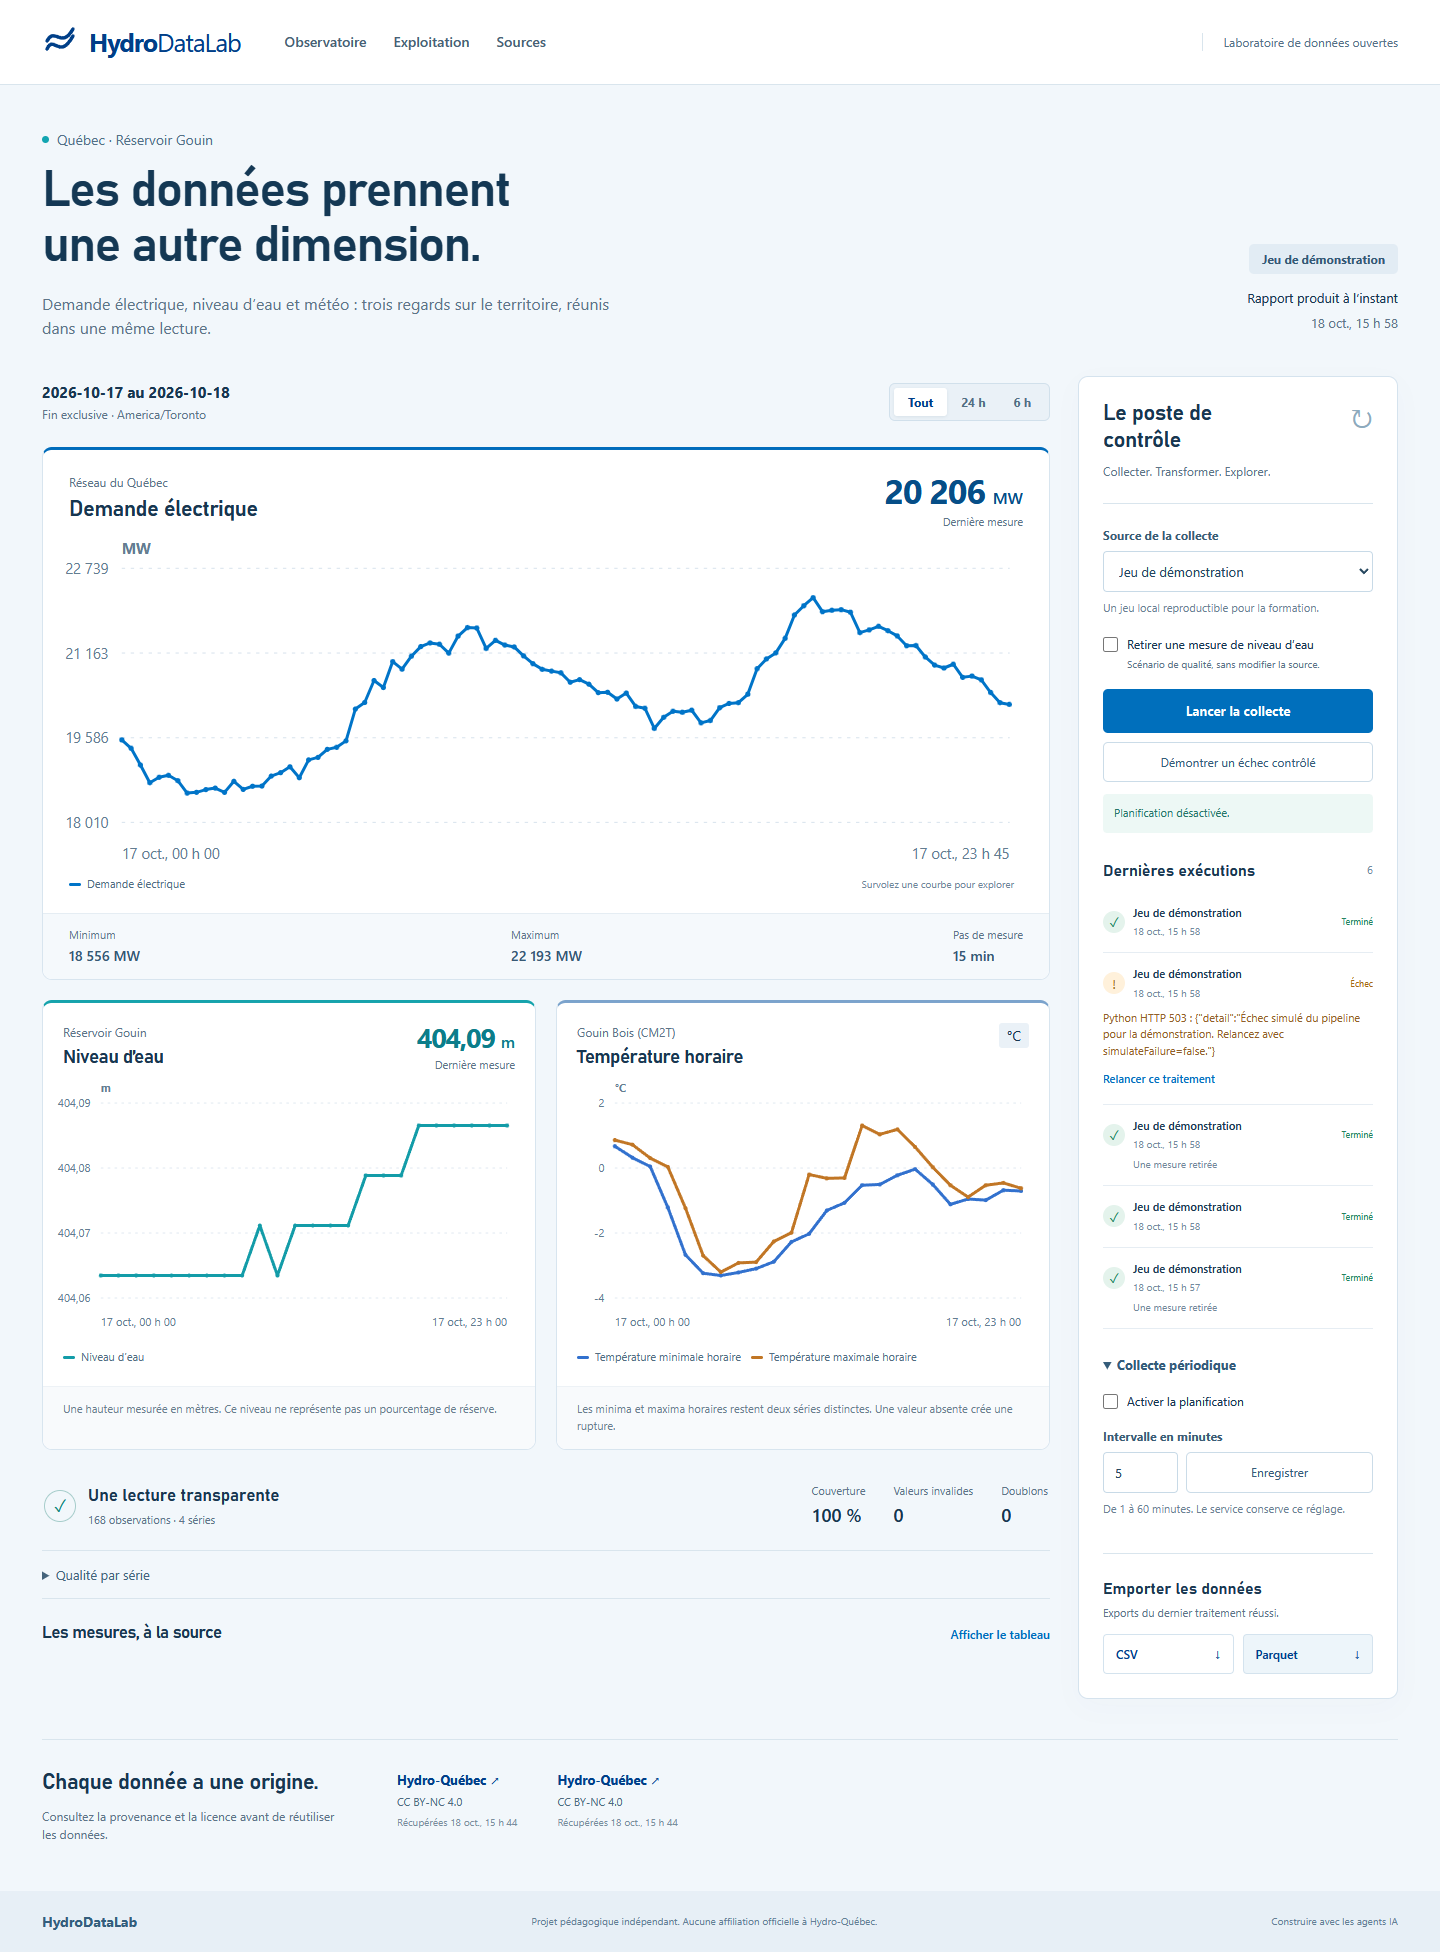
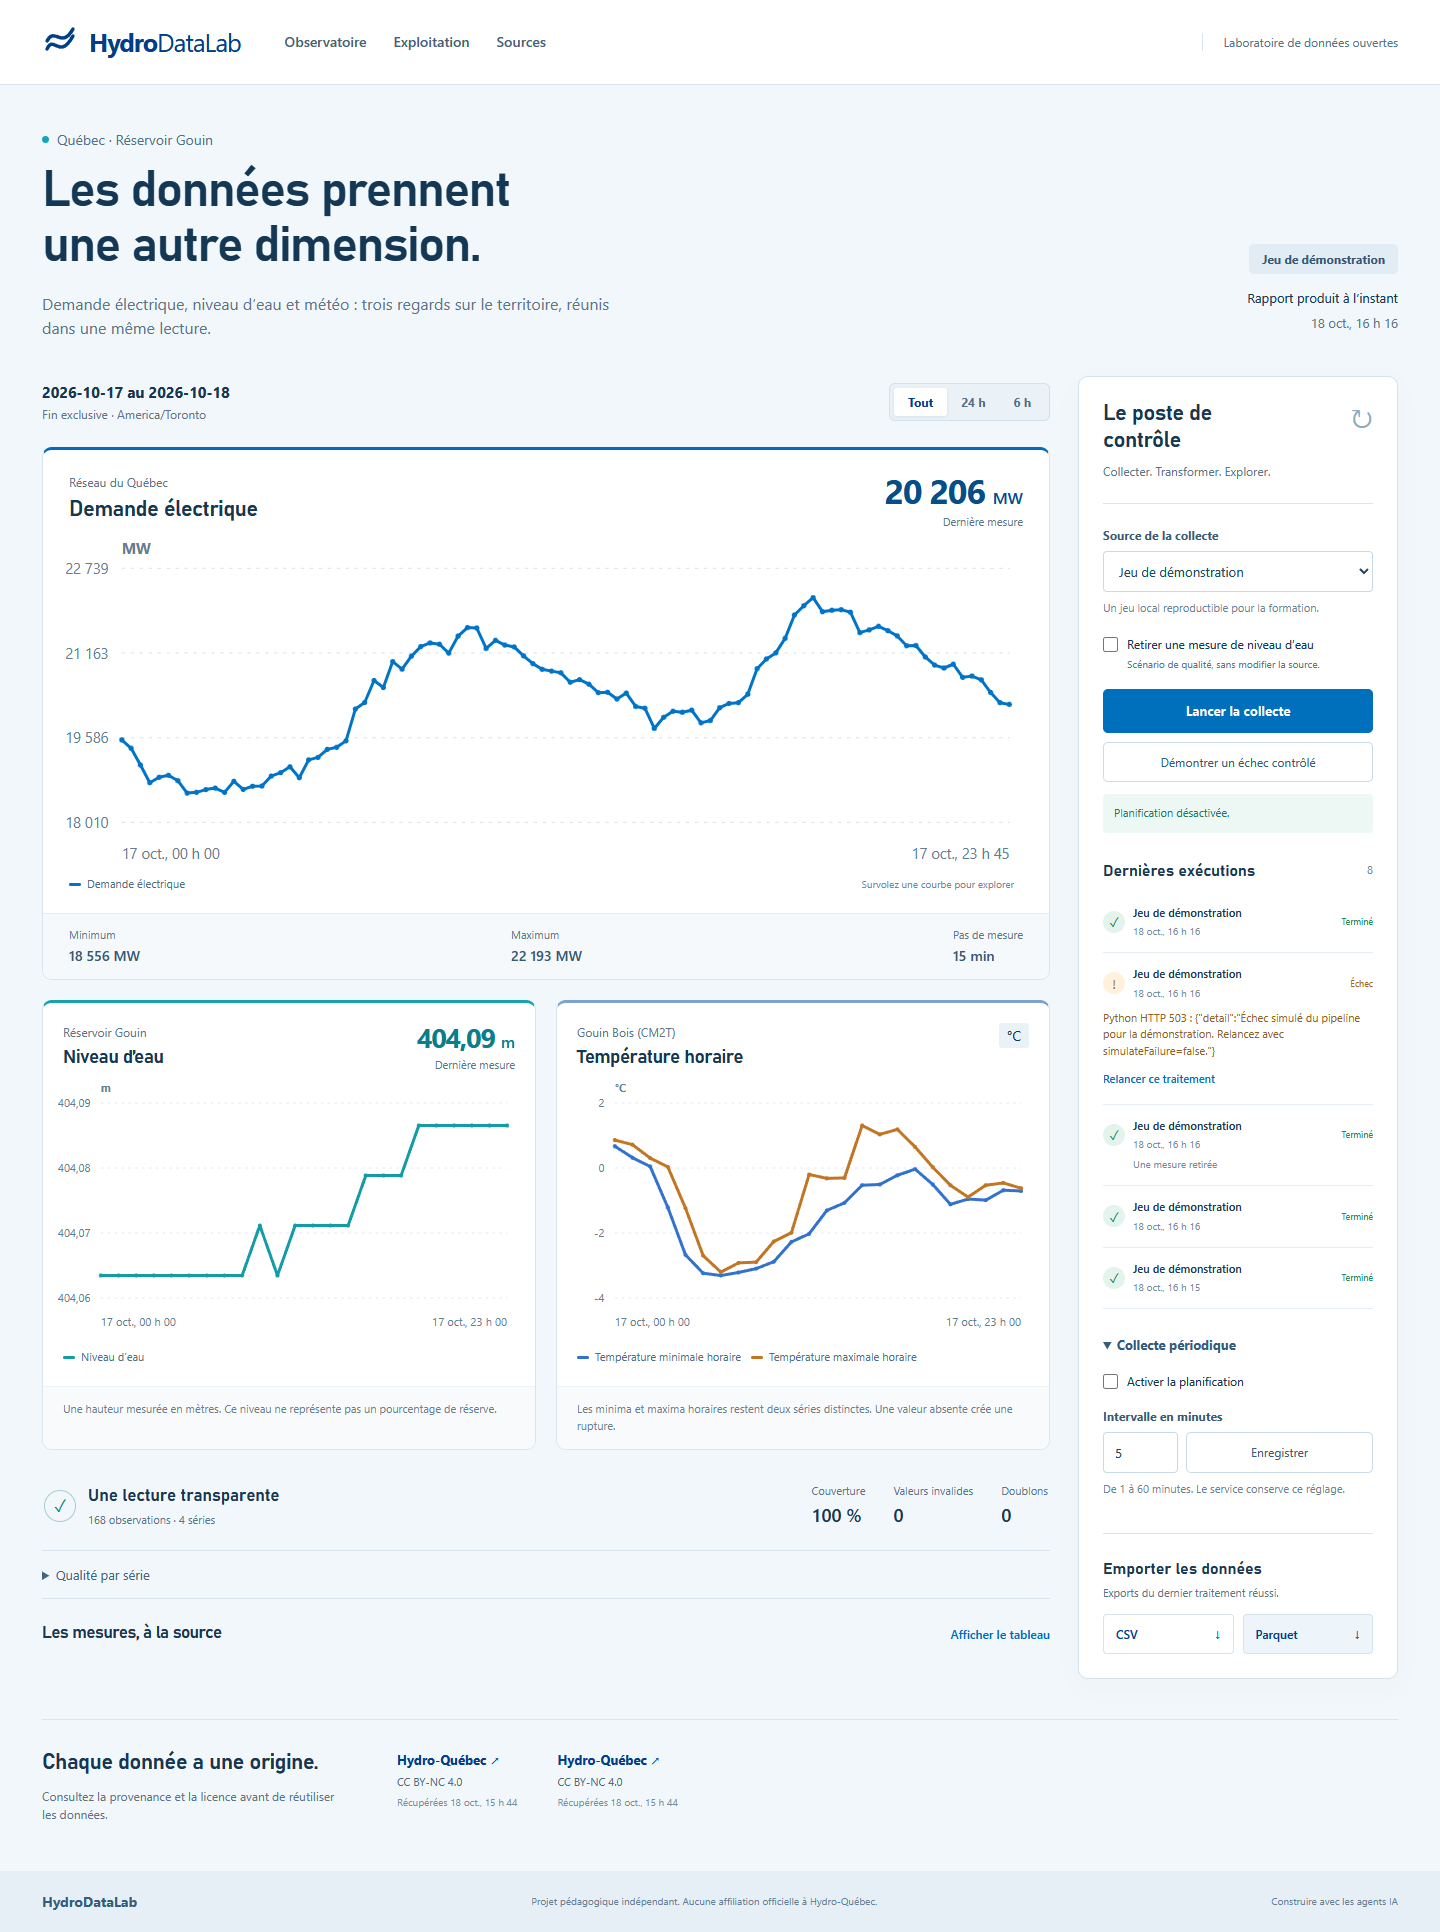
Fournir la solution de couverture validée et les preuves de démonstration

diff --git a/etl/hydrodatalab/coverage.py b/etl/hydrodatalab/coverage.py
@@ -1,7 +1,31 @@
-"""Checkpoint 06 : remplacer temporairement hydrodatalab/coverage.py par ce fichier."""
+"""Petite fonctionnalité indépendante, remplacée par un stub au checkpoint 06."""
+from datetime import datetime, time, timezone
+from zoneinfo import ZoneInfo
 
 
 def calculate_coverage(timestamps, start: str, end: str, interval_minutes: int,
-                       timezone_name: str = "America/Toronto") -> dict | None:
-    """À implémenter à partir de specs/coverage.md pendant la démonstration."""
-    return None
+                       timezone_name: str = "America/Toronto") -> dict:
+    """Compte des créneaux distincts attendus, y compris les jours de 23/25 heures.
+
+    timestamps contient uniquement les observations dont la valeur est valide.
+    start/end sont des dates civiles, borne de fin exclusive.
+    """
+    if interval_minutes <= 0 or 60 % interval_minutes:
+        raise ValueError("interval_minutes doit être un diviseur positif de 60")
+    zone = ZoneInfo(timezone_name)
+    first = datetime.combine(datetime.fromisoformat(start).date(), time(), zone).astimezone(timezone.utc)
+    last = datetime.combine(datetime.fromisoformat(end).date(), time(), zone).astimezone(timezone.utc)
+    if last <= first:
+        raise ValueError("La fin doit suivre le début")
+    step = interval_minutes * 60
+    expected = int((last - first).total_seconds() / step)
+    slots = set()
+    for timestamp in timestamps:
+        instant = datetime.fromisoformat(str(timestamp).replace("Z", "+00:00"))
+        if instant.tzinfo is None:
+            raise ValueError("Un horodatage d'observation doit contenir son décalage UTC")
+        elapsed = (instant.astimezone(timezone.utc) - first).total_seconds()
+        if 0 <= elapsed < expected * step and elapsed % step == 0:
+            slots.add(int(elapsed / step))
+    observed = len(slots)
+    return {"observed": observed, "expected": expected, "percent": round(100 * observed / expected, 2)}

diff --git a/docs/screenshots/VALIDATION.md b/docs/screenshots/VALIDATION.md
@@ -1,0 +1,60 @@
+# Preuve de validation navigateur — HydroDataLab
+
+Validation effectuée le **18 octobre 2026 à 16 h 16, heure de Toronto** (résultat automatisé : `2026-10-18T20:16:26.323Z`).
+
+## Environnement vérifié
+
+- Application servie par la composition de conteneurs : `http://127.0.0.1:53170`.
+- Tableau de bord de télémétrie : `http://127.0.0.1:53174`.
+- Microsoft Edge en mode headless, Playwright 1.64.1.
+- Vue de bureau : 1440 × 1100; mobile : 390 × 844.
+- Données locales de démonstration, scénario complet puis scénario manquant.
+
+## Résultats
+
+| Parcours | Résultat observé |
+|---|---|
+| Collecte locale | Traitement terminé, rapport affiché |
+| Visualisations | Trois graphiques; températures minimale et maximale séparées |
+| Période | Filtre 6 h activé puis retour à toute la période |
+| Clavier | Inspection de la demande avec les flèches; unité MW visible |
+| Qualité | Couverture du niveau d’eau réduite et détail **23 / 24 = 95,83 %** visible |
+| Tableau | Mesures disponibles dans le tableau détaillé |
+| Échec contrôlé | Échec visible dans l’historique |
+| Relance | Nouveau traitement terminé après relance depuis l’interface |
+| Planification | Activation enregistrée, puis désactivation enregistrée et confirmée par l’API |
+| CSV | Téléchargement réussi, contenu non vide |
+| Parquet | Téléchargement réussi, signature binaire `PAR1` vérifiée |
+| Mobile | Aucun débordement horizontal à 390 px |
+| JavaScript | Aucune exception de page capturée |
+| Réseau du navigateur | **Aucune requête HTTP(S) vers une origine externe à l’application locale** pendant le parcours |
+
+État laissé en fin de test : **dernier traitement local réussi, scénario complet; planification désactivée**.
+
+## Captures de secours
+
+- `01-poste-controle.png` : poste de contrôle à l’ouverture.
+- `02-observatoire-complet.png` : rapport complet et graphiques.
+- `03-qualite-mesure-absente.png` : scénario manquant, qualité par série dépliée.
+- `03b-qualite-detail.png` : cadrage rapproché du détail qualité, conservé du contrôle natif.
+- `04-echec-controle.png` : échec explicite avec possibilité de relance.
+- `05-relance-et-exports.png` : état après relance et contrôles de planification.
+- `06-mobile.png` : interface sur écran de 390 px.
+- `07-aspire.png` : ressources du démarrage **natif**, capture conservée; aucun token de connexion visible.
+- `08-compose.png` : traces reçues par le tableau de bord de la composition de conteneurs, filtrées sur les activités `ETL HydroDataLab`; huit traces et les échecs simulés sont visibles.
+
+Les captures 01 à 06 ont été produites par le parcours Compose. Le fichier 03b et la capture 07 proviennent du mode natif.
+
+## Reproduction et limites
+
+Après démarrage des conteneurs, depuis `web/` :
+
+```powershell
+$env:HYDRO_WEB_URL = 'http://127.0.0.1:53170'
+node qa/browser-smoke.mjs
+```
+
+Le script crée des exécutions de démonstration et active brièvement la planification avant de la désactiver. Ne pas lancer simultanément un autre traitement pendant ce test. Son résultat machine est `web/qa-results/browser-smoke.json`, ignoré par Git.
+
+Ce contrôle vérifie le navigateur et les téléchargements du scénario local. Il ne constitue pas un test de récupération des sources publiques en direct, une certification d’accessibilité ou une répétition sur le portable Hydro-Québec. La surveillance réseau couvre les requêtes du navigateur, pas les sorties réseau éventuelles des services côté serveur.
+

diff --git a/PROGRESS.md b/PROGRESS.md
@@ -10,7 +10,7 @@ Mis à jour : 18 octobre 2026. Formation cible : mardi 20 octobre 2026.
 - [x] Parcours Docker Compose et comparaison avec le mode natif.
 - [x] 24 diapositives, PDF, notes et aide-mémoire contrôlés.
 - [ ] Tags pédagogiques, scripts de reprise et sauvegarde Git.
-- [ ] Vérification navigateur et répétition technique.
+- [x] Vérification navigateur et répétition technique sur le poste de construction.
 
 ## Décisions
 - Python porte les transformations. .NET pilote et conserve l'historique; Vue présente les résultats.
@@ -24,7 +24,7 @@ Lire ce journal, puis `git status --short --branch` et `git log -5 --oneline`.
 Ne pas écraser les modifications existantes. Le travail des agents est réparti entre `etl/`, `web/`, `presentation/` et le reste du dépôt.
 
 ## Prochaine action
-Terminer les images et la validation Compose; figer les jalons Git et les sauvegardes.
+Produire le bundle Git, vérifier une restauration réelle et terminer l'archive des images. La version finale Python a été restaurée après validation du jalon 06 volontairement incomplet.
 
 ## Vérifications
 - Python : 35 tests réussis; lecture réelle de la source publique vérifiée; date CLI, idempotence, changements d'heure et interruptions couverts.
@@ -32,13 +32,15 @@ Terminer les images et la validation Compose; figer les jalons Git et les sauveg
 - Vue : compilation et 11 tests réussis; parcours Edge complet et mobile validé, captures dans docs/screenshots.
 - HTTP natif : collecte, scénario manquant 95,83 %, échec/relance, trois exports vérifiés.
 - Slidev : 24 diapositives, aucun débordement ni requête externe; interactions vérifiées, PDF produit.
-- Git : dernier commit enregistré `1c285b1`, tag `04-pilotage` (ETL `50ba71b`, extraction `462c459`).
+- Git : jalons 00 à 06 enregistrés; `05-docker` = `b01c5c4`, `06-specification` = `9f92fe3`. Branche `demo-live` créée depuis 06. Solution 07 en cours d'enregistrement.
 - Image ETL finale testée sans réseau : CSV identique, Parquet et JSON métier équivalents au mode natif.
 - Aspire : publication Compose réussie; images API, Vue, ETL et dashboard téléchargées/construites.
 - 16:16 : Compose sain et parcours HTTP complet validé (collecte, couverture, panne, relance, exports). Le blocage venait de la liaison named pipe Docker; construction Podman directe puis API temporaire localhost dans le namespace systemd. Aucun service global redémarré. Voir docs/VALIDATION.md.
 - Persistance réelle : restart API conserve dernier rapport et planification; planification désactivée après vérification.
 - Préparation native exécutée avec succès; audit résiduel des outils Slidev documenté dans presentation/DEPENDENCY-AUDIT.md.
 - Scripts de reprise : runtime séparé par branche/tag; changements Git refusés si modifications locales.
+- Jalon 06 vérifié : deux acceptations volontairement rouges, CLI fonctionnelle avec 168 observations et couverture absente. Solution restaurée : 35 tests Python verts.
+- Compose : 14 contrôles navigateur réussis, aucune requête externe du navigateur. Conteneurs arrêtés proprement après les tests; volumes conservés.
 - Docker Desktop : backend ne démarre pas. Le contexte existant `podman-machine-default` répond; tests de conteneur via ce contexte explicite.
 - Ports réservés à cette démo : Vue 53170, API 53171, Python 53172, présentation 53173.
 

diff --git a/DEMO_STEP.md b/DEMO_STEP.md
@@ -1,7 +1,7 @@
-# Jalon 06 — exercice de couverture
+# Jalon 07 — solution validée
 
-Le pipeline et l'application fonctionnent. La fonction `calculate_coverage` retourne volontairement `None` : l'interface affiche l'indicateur comme à construire.
+Le pipeline et l'application fonctionnent avec l'indicateur de couverture implémenté. Les observations valides sont dédupliquées par créneau; le calcul respecte les jours de 23/25 heures à Toronto.
 
-Lire `specs/coverage.md`, puis implémenter uniquement la fonction Python. Les tests de `specs/test_coverage_acceptance.py` et les tests unitaires de couverture sont volontairement rouges. Ne pas modifier les attentes pour les faire passer.
+`uv run --project etl pytest etl/tests specs/test_coverage_acceptance.py` valide les règles, dont 23/24 = 95,83 %. Les zéros valides restent comptés et les données originales sont conservées.
 
-La branche `demo-live` permet de conserver la génération. La solution validée est disponible au tag `07-solution`. Voir `docs/CHECKPOINTS.md` pour la bascule de secours.
+La branche `demo-live` part du tag `06-specification`, où cette fonction est volontairement absente. Voir `docs/CHECKPOINTS.md` pour l'exercice et la bascule de secours. Cette version finale constitue le résultat préparé, pas une trace de génération en direct par Copilot.

diff --git a/docs/CONTRACT.md b/docs/CONTRACT.md
@@ -48,4 +48,4 @@ Les séries sont `demand`, `water_level`, `temperature_min`, `temperature_max`. 
 Statuts : `queued`, `running`, `succeeded`, `failed`, `interrupted`. Étapes : `queued`, `extract-transform-export`, `persist`, `complete`. L'historique est durable; après redémarrage les exécutions en cours sont marquées interrompues. La planification périodique est désactivée au premier démarrage.
 
 ## Environnement
-Python : `HYDRO_OUTPUT_DIR`, `HYDRO_FIXTURE_DIR` facultatif. .NET : `Python__BaseUrl`, `Hydro__DataDir`, `Hydro__ArtifactDir`. Vite : `API_BASE_URL` pour son proxy `/api`. Chaque checkpoint utilise un répertoire runtime séparé.
+Python : `HYDRO_OUTPUT_DIR`, `HYDRO_FIXTURE_DIR` facultatif. .NET : `Python__BaseUrl`, `Hydro__DataDir`. Vite : `API_BASE_URL` pour son proxy `/api`. Le script `start-demo.ps1` sélectionne un répertoire runtime distinct par branche/tag via `HYDRO_RUNTIME_DIR`.

diff --git a/AGENTS.md b/AGENTS.md
@@ -2,5 +2,5 @@
 
 Lire `.github/copilot-instructions.md` pour les règles communes, puis `docs/CONTRACT.md` pour les interfaces.
 Les instructions applicables sont complémentaires : résoudre les contradictions explicitement.
-Pour reprendre une préparation interrompue, lire `PROGRESS.md` avant toute modification.
+Pour reprendre une préparation interrompue, lire `PROGRESS.md` et `DEMO_STEP.md` (si présent) avant toute modification.
 Ne jamais remplacer des changements locaux lors d'une bascule Git.

diff --git a/docs/CHECKPOINTS.md b/docs/CHECKPOINTS.md
@@ -17,6 +17,8 @@ Les huit tags annotés constituent une histoire linéaire. Les premiers jalons s
 
 ## Préparer le live
 
+Arrêter le parcours conteneurisé avant de changer de jalon. Après l'arrêt ciblé d'Aspire, le script refuse aussi la bascule si le port 53170 est encore occupé; il ne tue aucune autre application.
+
 ```powershell
 ./scripts/checkpoint.ps1 -Tag 06-specification -Branch demo-live
 ./scripts/start-demo.ps1
